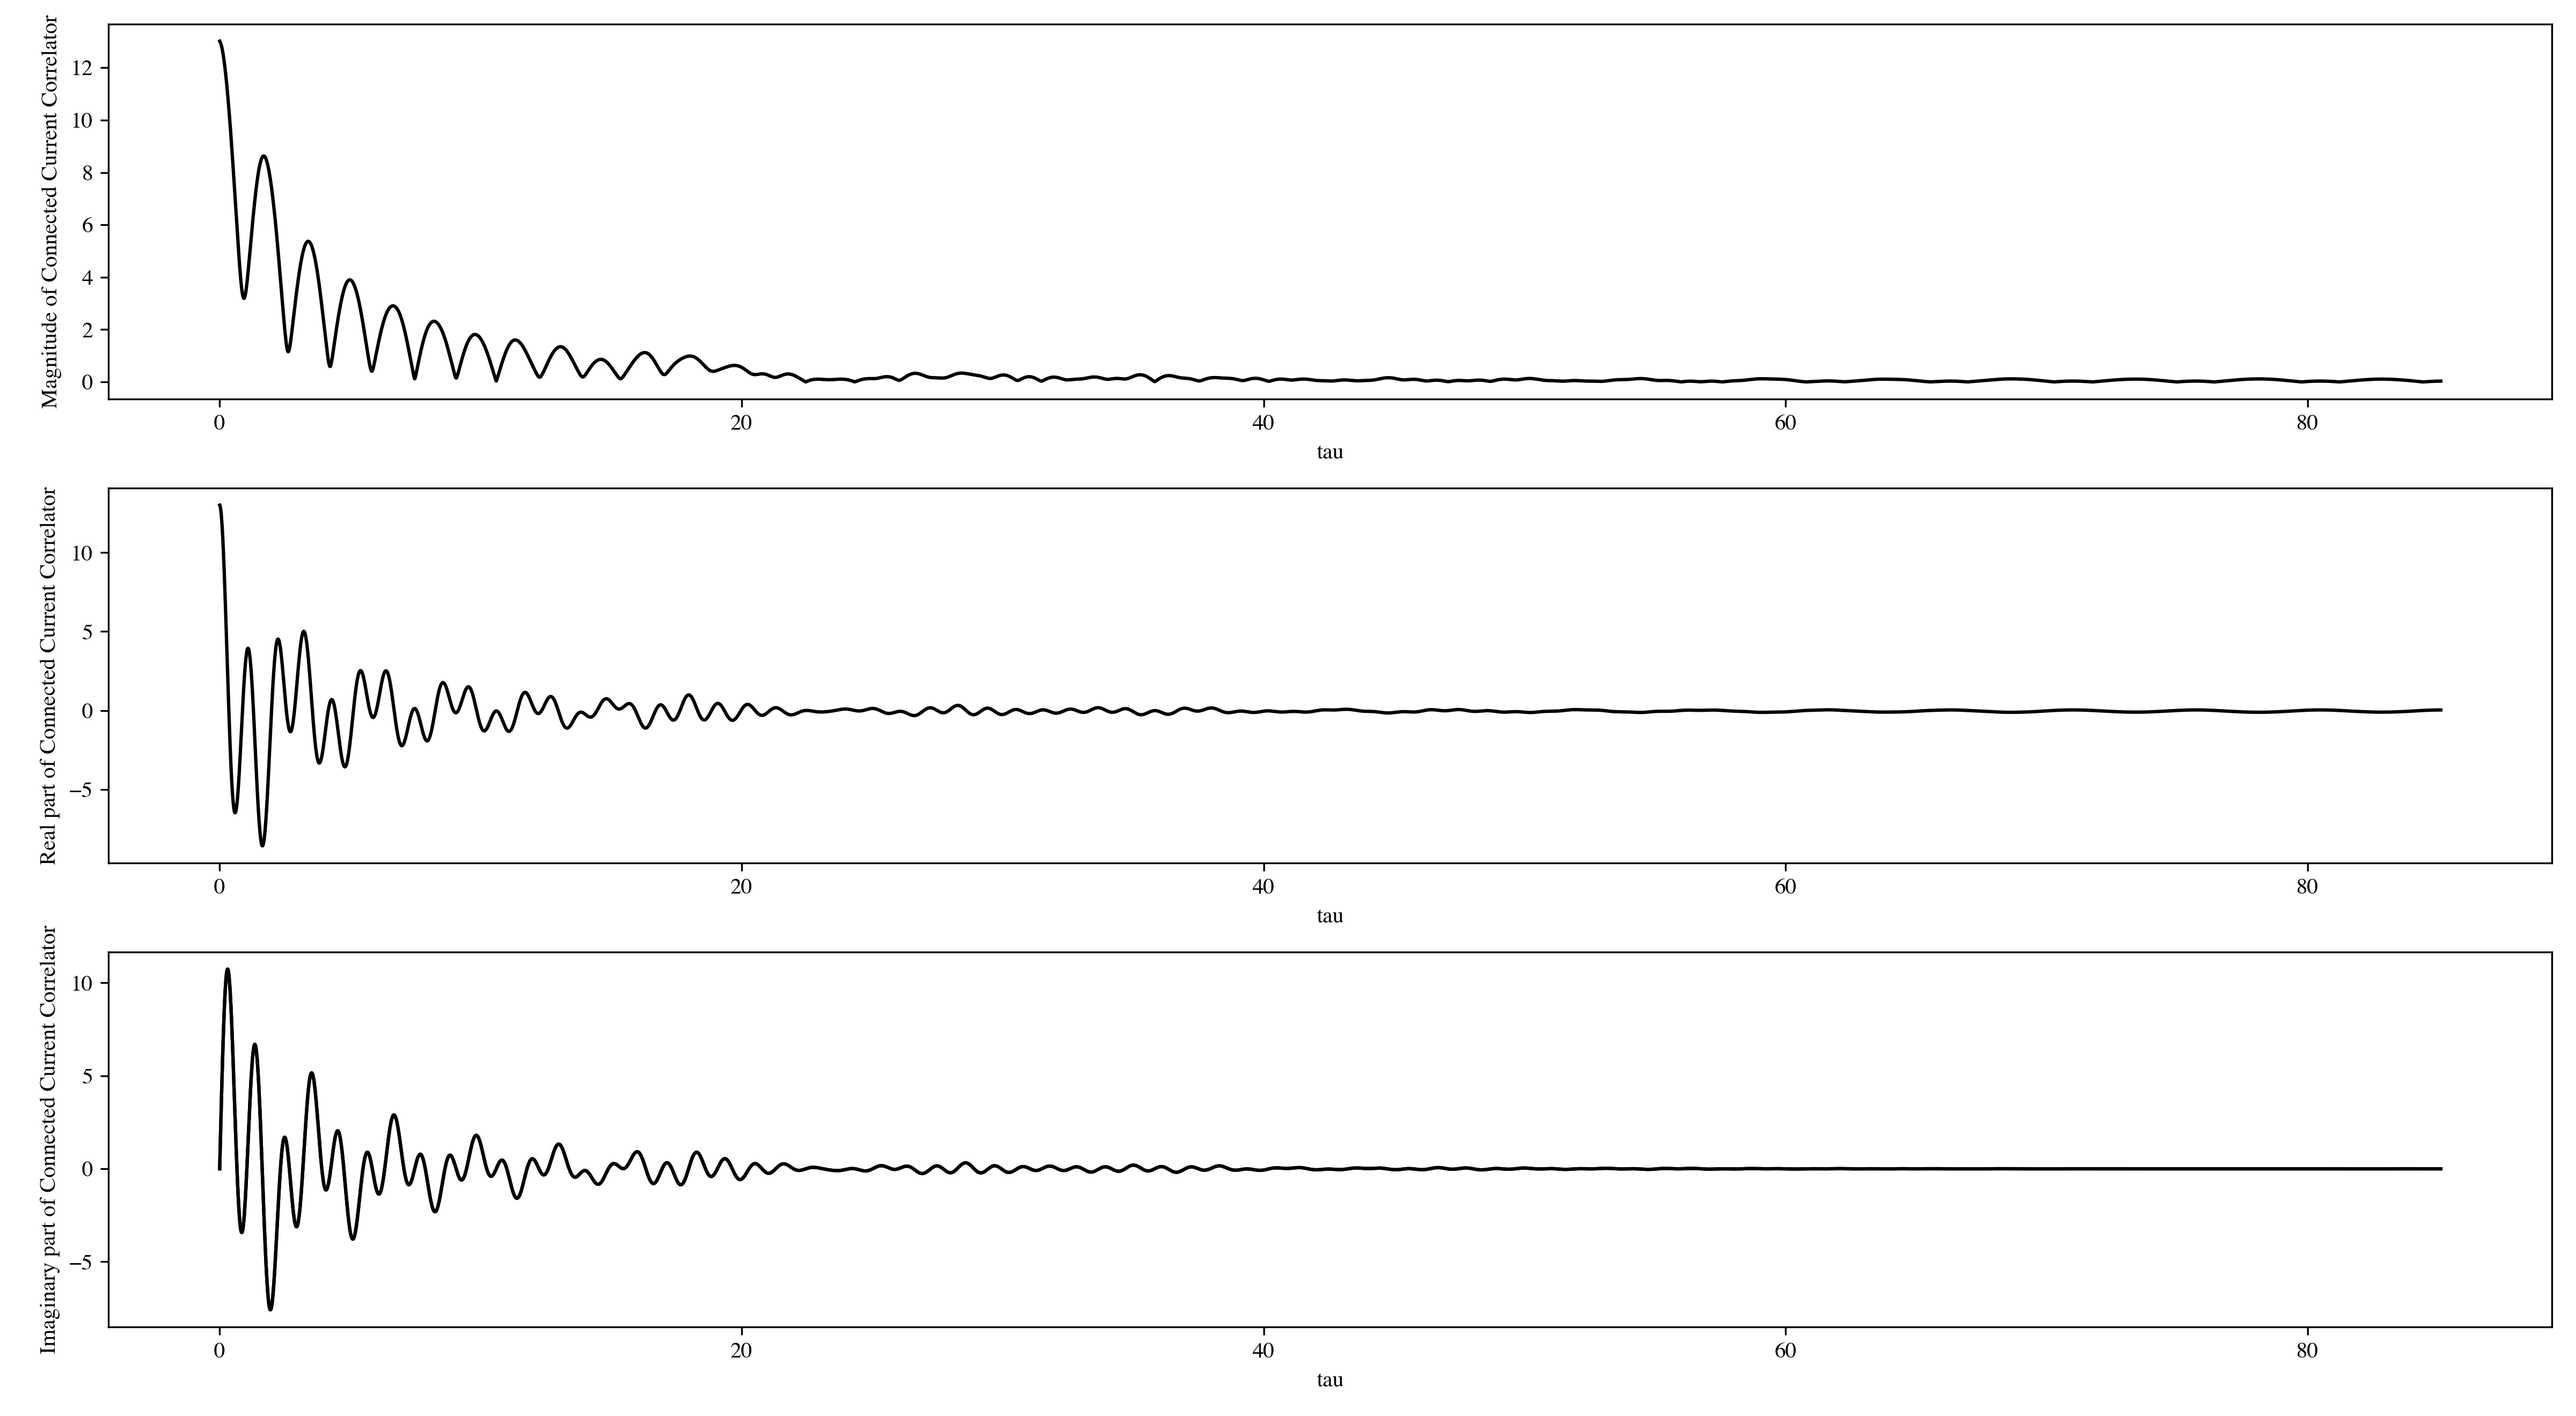
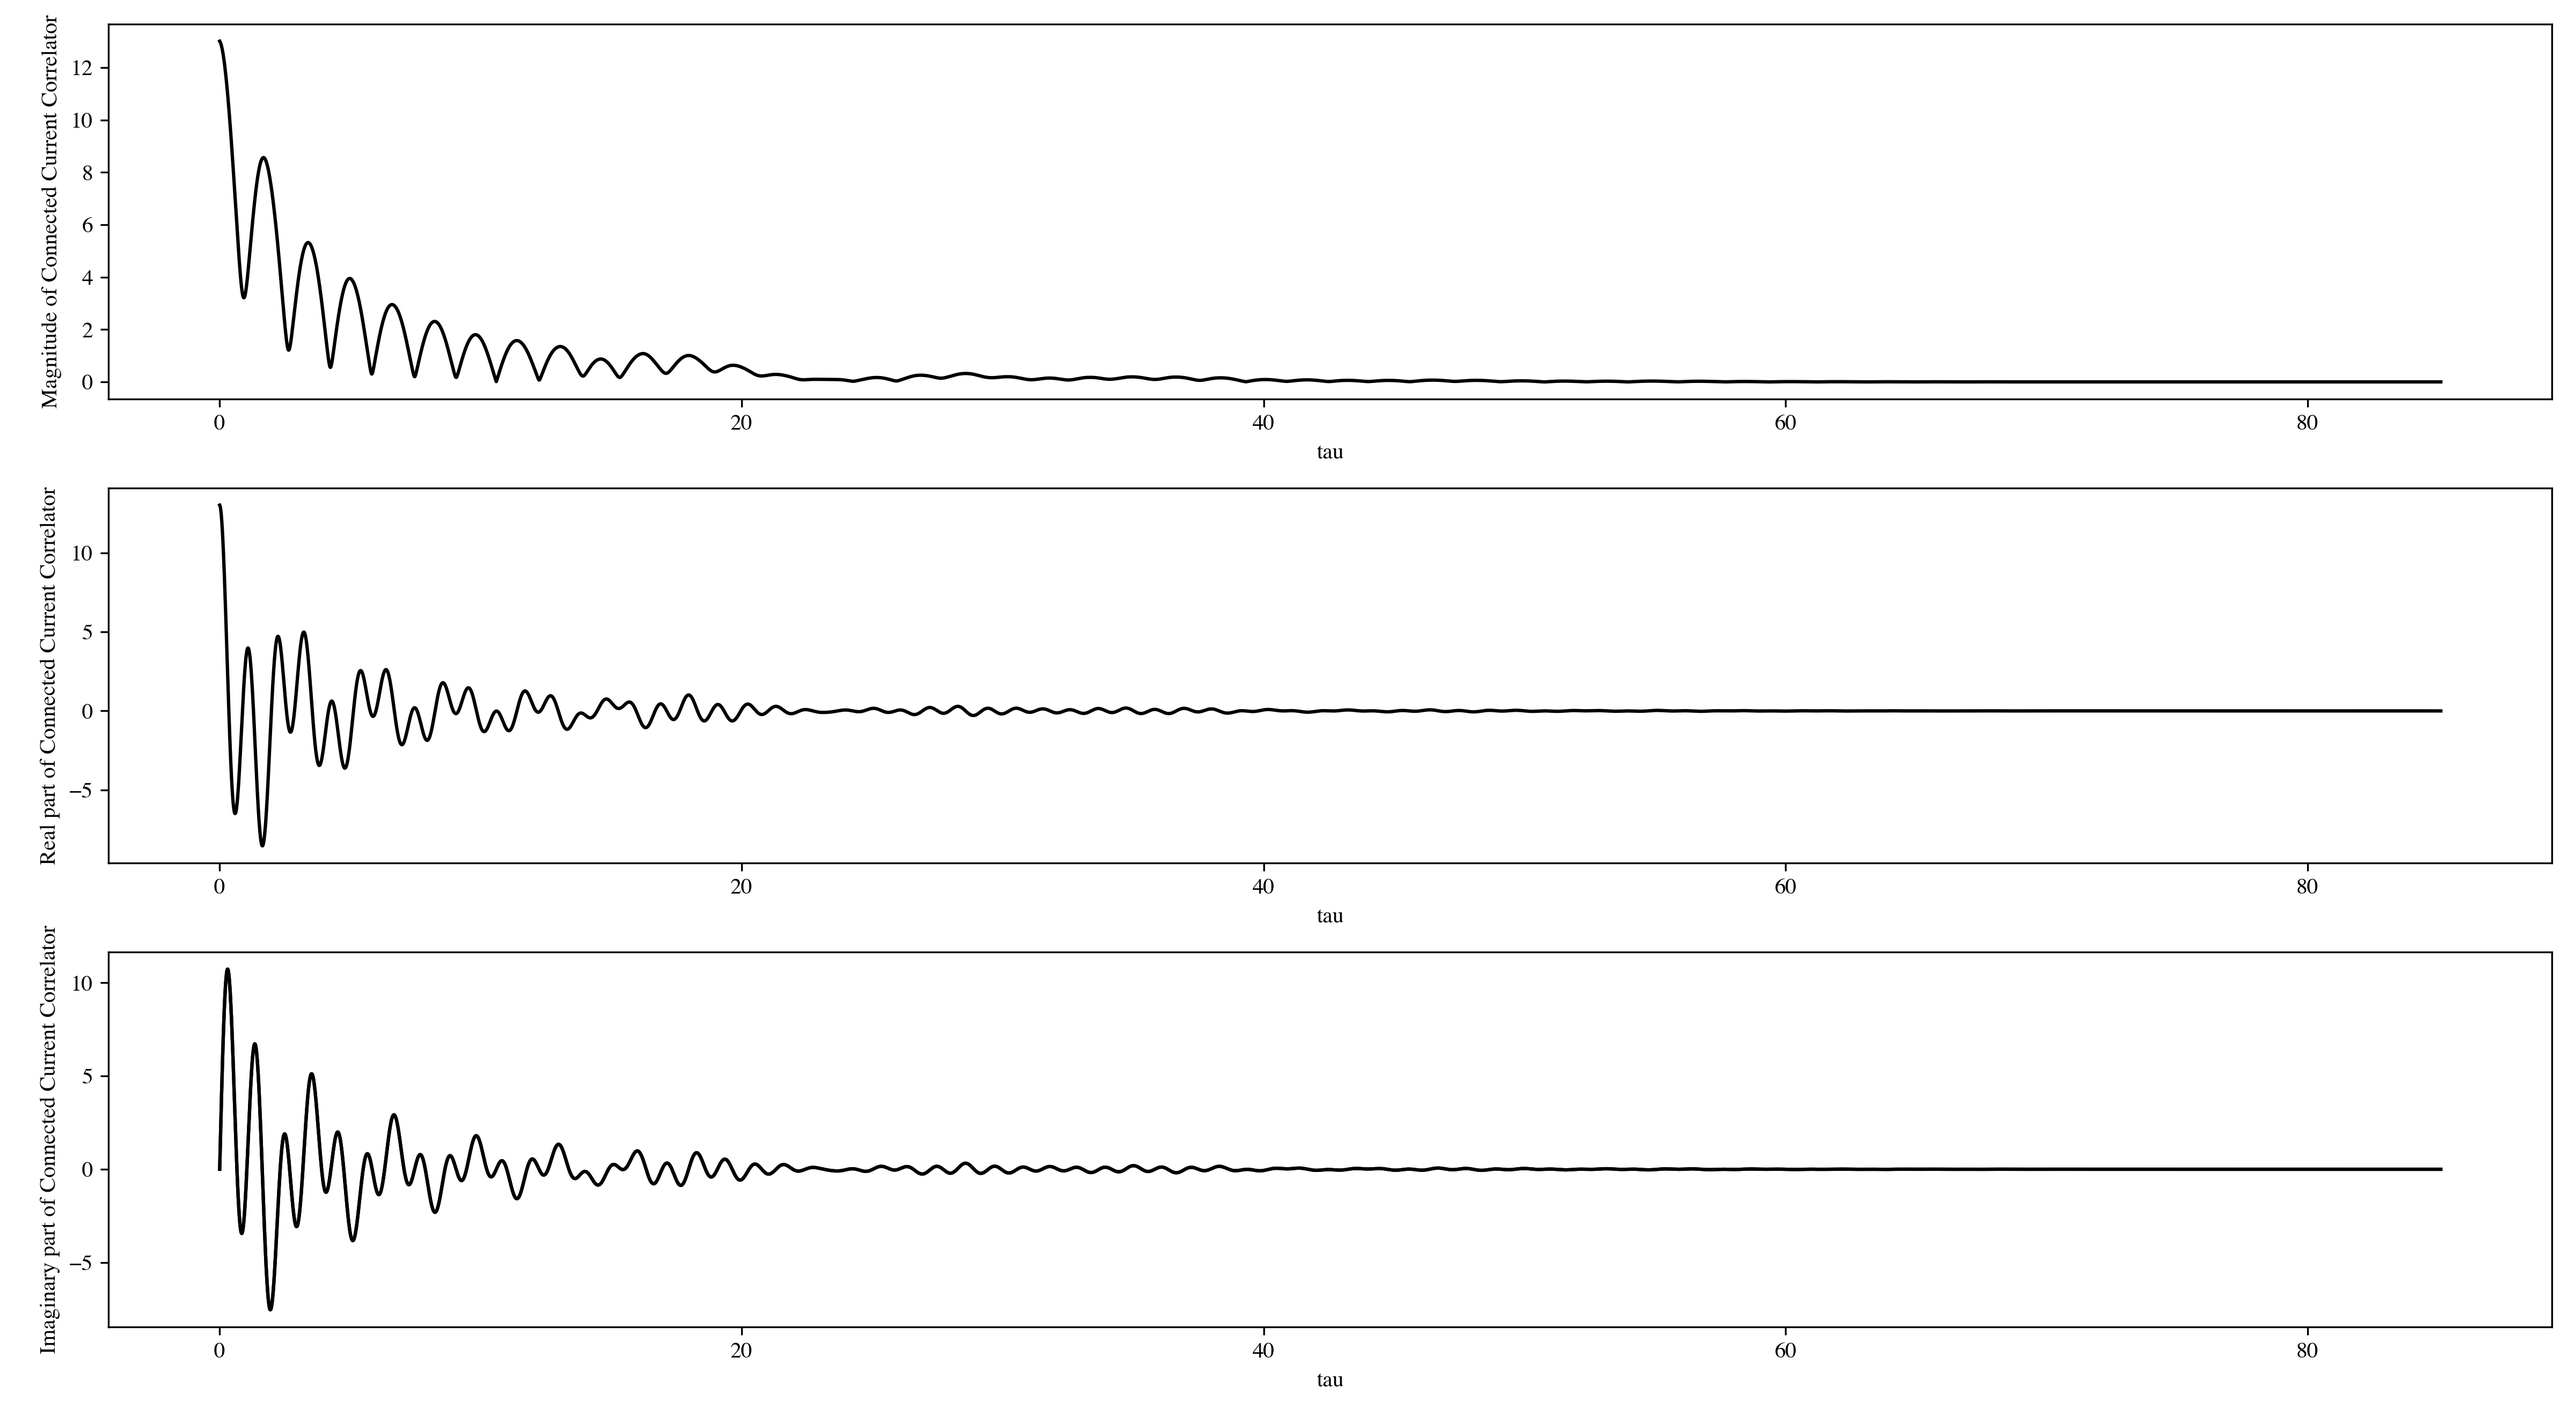
Changed the Hy back to being 'wrong' in Denis' code, and it seemed to move the FFT off-center, so while I've love for this to be the reason its wrong, this is also what my code produced, so the apparent mismatch between mine and denis' code may just not actually exist and we're both right. Or, someh

Changed region(s): [[0.8125, 0.2485, 0.8438, 0.2795]]

diff --git a/1d-ssh-model.py b/1d-ssh-model.py
@@ -31,8 +31,8 @@ if __name__ == "__main__":
             case "test":
                 numK = 25
                 numT = 21
-                tauAxis = np.linspace(0, 40, 40000)
-                steadyStateCutoff = 35
+                tauAxis = np.linspace(0, 17, 40000)
+                steadyStateCutoff = 12
 
             case _:
                 print("Invalid mode. Valid options are \'full\', \'med\' or \'min\'.")
@@ -43,7 +43,7 @@ if __name__ == "__main__":
     params = data.EnsembleParameters(
         t1 = 2,
         t2 = 1,
-        decayConstant = 0.1,
+        decayConstant = 0.2,
         drivingAmplitude = 0.2, # 0.2
         drivingFreq = 2 / 3.01,
         maxN = 50

diff --git a/DenisSSHModel.py b/DenisSSHModel.py
@@ -81,7 +81,7 @@ class One_D_SSH_Model:
         dwdk = self.dwdk(k)
         dA12 = 2.0 * self.energy(k) * self.A12(k)
         At = self.Ax(t)
-        return -(dwdk * (1.0 - cos(At)) + dA12 * sin(At))
+        return dwdk * (1.0 - cos(At)) + dA12 * sin(At)
 
     def hzn(self, n: int, k: float):
         """Fourier coefficient $h_{z, n}$ for momentum k."""

diff --git a/denis-run.py b/denis-run.py
@@ -6,7 +6,6 @@ import pickle
 
 numK, numT = 25, 21
 
-
 ssh = One_D_SSH_Model(t_points = numT)
 final_corr = np.zeros((len(ssh.time_inf), len(ssh.time)), dtype=complex)
 
